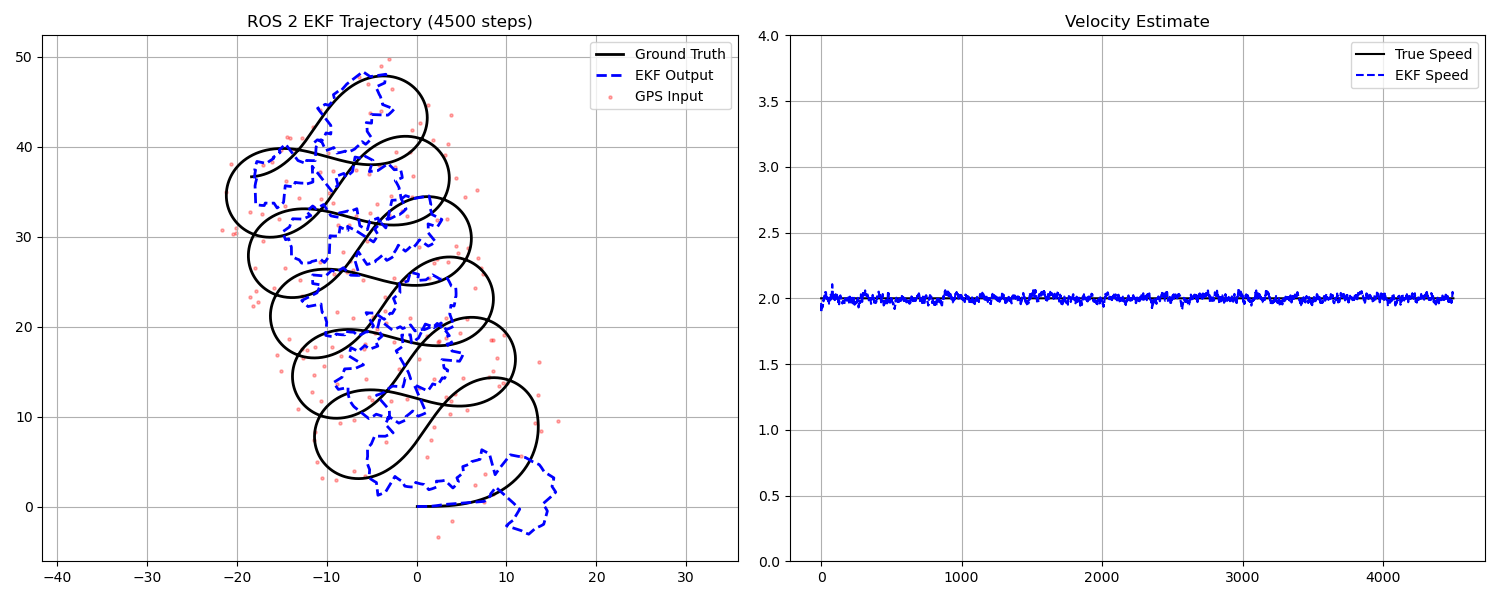
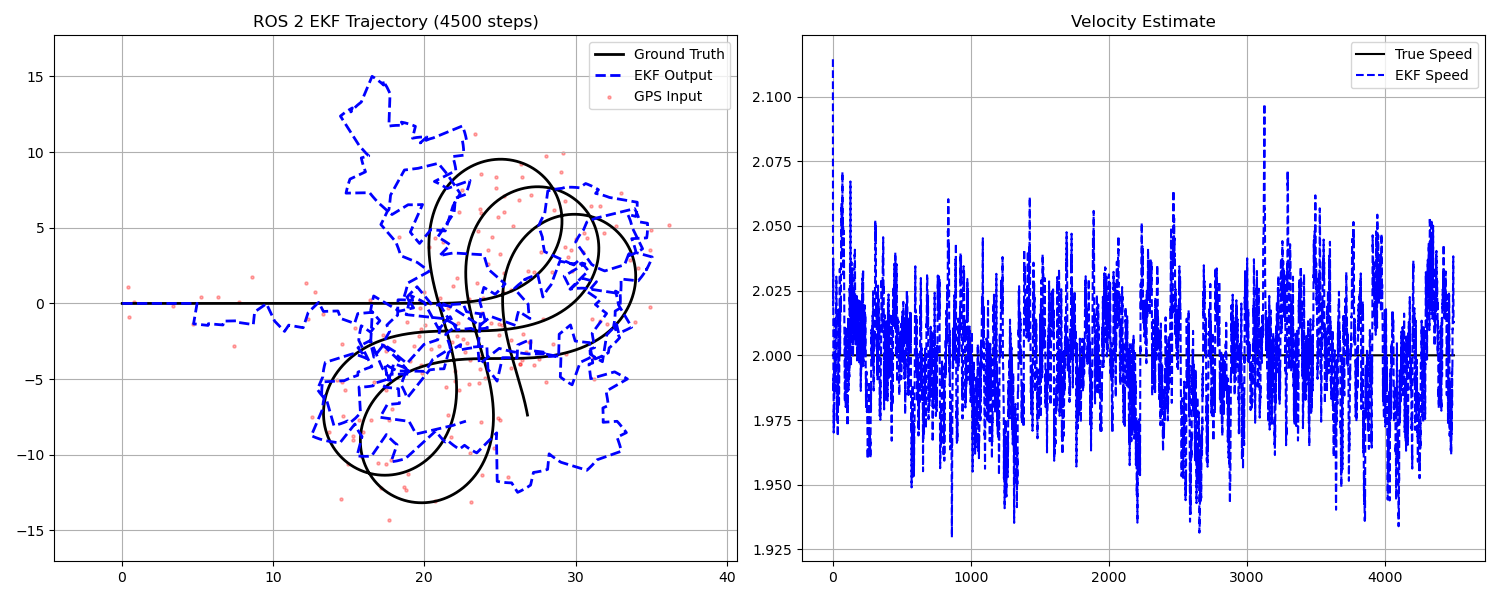
Added gazebo testing bridges for sim imu and gps data

diff --git a/state_estimator/src/state_estimator/virtual_car.py b/state_estimator/src/state_estimator/virtual_car.py
@@ -2,56 +2,51 @@
 import rclpy
 from rclpy.node import Node
 import numpy as np
-from math import sin, cos, pi
+from math import sin, cos, pi, sqrt
 from sensor_msgs.msg import Imu
 from nav_msgs.msg import Odometry
 from std_msgs.msg import Float32
-from geometry_msgs.msg import PoseWithCovarianceStamped
+from geometry_msgs.msg import PoseWithCovarianceStamped, Quaternion
 
 class VirtualRobot(Node):
     def __init__(self):
         super().__init__('virtual_robot')
 
-        # Publishers
+        # --- PUBLISHERS ---
+        # We publish to /imu/diff to mimic the output of 'imu_bridge.py'
         self.pub_imu = self.create_publisher(Imu, '/imu/diff', 10)
         self.pub_gps = self.create_publisher(PoseWithCovarianceStamped, '/gps/enu_pose', 10)
         self.pub_truth = self.create_publisher(Odometry, '/ground_truth', 10)
         self.pub_wheel = self.create_publisher(Float32, '/wheel_speed', 10)
 
-        # Simulation Settings
-        self.dt = 0.02 # 50 Hz
+        # --- SIMULATION STATE ---
+        self.dt = 0.02  # 50 Hz
         self.t = 0.0
         self.steps = 0
-        self.max_steps = 700000 # Stop after this
+        self.max_steps = 700000 
 
-        # State
+        # Robot Physics State
         self.x = 0.0
         self.y = 0.0
         self.yaw = 0.0
-        self.v = 2.0 
+        self.v = 2.0  # Constant speed 2.0 m/s
 
         self.create_timer(self.dt, self.update)
-        self.get_logger().info(f"🚀 VIRTUAL ROBOT LIVE. Simulating {self.max_steps} steps...")
+        self.get_logger().info(f"🚀 VIRTUAL ROBOT LIVE. Dual-IMU Mode.")
 
     def update(self):
         if self.steps >= self.max_steps:
             return
 
+        # --- 1. PHYSICS ENGINE (Drive Straight -> Then Curve) ---
+        # This mimics the "Operational Procedure" needed for EKF alignment
         if self.t < 10.0:
-            true_yaw_rate = 0.0 
+            true_yaw_rate = 0.0  # Drive Straight
         else:
-            # After 5s, start the sine wave curves
-            true_yaw_rate = 0.5 * sin(0.2 * (self.t - 5.0))
+            # Figure-8 Pattern
+            true_yaw_rate = 0.5 * sin(0.2 * (self.t - 10.0))
             
-        self.yaw += true_yaw_rate * self.dt
-        self.x += self.v * cos(self.yaw) * self.dt
-        self.y += self.v * sin(self.yaw) * self.dt
-        self.t += self.dt
-        self.steps += 1
-        
-        # ... (Rest of the file is unchanged) ...
-        # 1. Physics (Figure 8)
-        true_yaw_rate = 0.5 * sin(0.2 * self.t)
+        # Integrate Position
         self.yaw += true_yaw_rate * self.dt
         self.x += self.v * cos(self.yaw) * self.dt
         self.y += self.v * sin(self.yaw) * self.dt
@@ -60,7 +55,66 @@ class VirtualRobot(Node):
 
         now = self.get_clock().now().to_msg()
 
-        # 2. Publish Ground Truth (For Plotting)
+        # --- 2. GENERATE RAW DUAL-IMU DATA ---
+        # We simulate what the hardware sends to the bridge
+        
+        # True Acceleration (Centripetal only, since speed is constant)
+        # a_lat = v * omega
+        true_accel_lat = self.v * true_yaw_rate
+        true_accel_fwd = 0.0 # Constant speed
+        
+        # SIMULATE LEFT IMU (Independent Noise)
+        # In reality, Left IMU might see different accel due to turning radius, 
+        # but for EKF testing, independent noise is sufficient.
+        ax_l = true_accel_fwd + np.random.normal(0, 0.005)
+        ay_l = true_accel_lat + np.random.normal(0, 0.005)
+        gz_l = true_yaw_rate  + np.random.normal(0, 0.001)
+
+        # SIMULATE RIGHT IMU (Independent Noise)
+        ax_r = true_accel_fwd + np.random.normal(0, 0.005)
+        ay_r = true_accel_lat + np.random.normal(0, 0.005)
+        gz_r = true_yaw_rate  + np.random.normal(0, 0.001)
+
+        # --- 3. BRIDGE PROCESSING LOGIC ---
+        # This matches exactly what your 'imu_bridge.py' does
+        
+        # A. Average the Gyros (Noise Reduction)
+        gyro_z_avg = (gz_l + gz_r) / 2.0
+        
+        # B. Average the Accelerometers (Noise Reduction)
+        accel_x_avg = (ax_l + ax_r) / 2.0
+        
+        # C. Calculate Differential (The Special Feature)
+        # Your bridge stores (Left_X - Right_X) in the Y-channel
+        accel_diff_x = ax_l - ax_r 
+
+        # --- 4. PUBLISH /imu/diff ---
+        imu = Imu()
+        imu.header.stamp = now
+        imu.header.frame_id = "imu_link"
+        
+        # Orientation (Quaternions)
+        # We assume Pitch/Roll = 0 for simulation, only Yaw matters here
+        # Note: Your bridge uses a filter for P/R, we just send clean Identity + Yaw
+        # Actually, standard IMU messages usually don't carry Yaw unless it's an AHRS.
+        # But your EKF uses Gyro Z, so orientation field is less critical here.
+        imu.orientation.w = 1.0 
+        
+        # Angular Velocity
+        imu.angular_velocity.z = gyro_z_avg
+        
+        # Linear Acceleration
+        imu.linear_acceleration.x = accel_x_avg
+        imu.linear_acceleration.y = accel_diff_x  # <--- DIFFERENTIAL DATA
+        imu.linear_acceleration.z = 9.81 + np.random.normal(0, 0.001)          # Gravity
+        
+        # Covariance (Matches your Bridge settings)
+        imu.linear_acceleration_covariance = [0.0025, 0.0, 0.0, 0.0, 0.0025, 0.0, 0.0, 0.0, 0.0025]
+        imu.angular_velocity_covariance    = [0.0004, 0.0, 0.0, 0.0, 0.0004, 0.0, 0.0, 0.0, 0.0004]
+        
+        self.pub_imu.publish(imu)
+
+        # --- 5. PUBLISH GROUND TRUTH (For Plotting) ---
         truth_msg = Odometry()
         truth_msg.header.stamp = now
         truth_msg.header.frame_id = "odom"
@@ -68,34 +122,23 @@ class VirtualRobot(Node):
         truth_msg.pose.pose.position.y = self.y
         truth_msg.twist.twist.linear.x = self.v
         truth_msg.twist.twist.angular.z = true_yaw_rate
-        # Yaw to Quaternion
-        truth_msg.pose.pose.orientation.z = sin(self.yaw/2.0)
-        truth_msg.pose.pose.orientation.w = cos(self.yaw/2.0)
         self.pub_truth.publish(truth_msg)
-
-        # 3. Publish Noisy IMU (For EKF)
-        imu = Imu()
-        imu.header.stamp = now
-        imu.header.frame_id = "imu_link"
-        imu.angular_velocity.z = true_yaw_rate + np.random.normal(0, 0.01)
-        # Fake accel noise
-        imu.linear_acceleration.x = np.random.normal(0, 0.1) 
-        self.pub_imu.publish(imu)
     
-        # 4. Publish Noisy GPS (2 Hz)
+        # --- 6. PUBLISH NOISY GPS (2 Hz) ---
         if self.steps % 25 == 0:
             gps = PoseWithCovarianceStamped()
             gps.header.stamp = now
             gps.header.frame_id = "odom"
+            # Add significant noise (1.5m) to test EKF fusion
             gps.pose.pose.position.x = self.x + np.random.normal(0, 1.5)
             gps.pose.pose.position.y = self.y + np.random.normal(0, 1.5)
-            # Covariance
-            gps.pose.covariance[0] = 1.5**2
-            gps.pose.covariance[7] = 1.5**2
+            
+            cov = 1.5**2
+            gps.pose.covariance[0] = cov
+            gps.pose.covariance[7] = cov
             self.pub_gps.publish(gps)
         
-        # 5. Publish Wheel Speed (50Hz)
-        # True speed + small noise (0.1 m/s)
+        # --- 7. PUBLISH WHEEL SPEED (50Hz) ---
         wheel_msg = Float32()
         wheel_msg.data = self.v + np.random.normal(0, 0.1)
         self.pub_wheel.publish(wheel_msg)

diff --git a/state_estimator/src/state_estimator/sim_gps_bridge.py b/state_estimator/src/state_estimator/sim_gps_bridge.py
@@ -1,0 +1,76 @@
+#!/usr/bin/env python3
+import rclpy
+from rclpy.node import Node
+from sensor_msgs.msg import NavSatFix
+from geometry_msgs.msg import PoseWithCovarianceStamped
+import math
+
+class SimGPSBridge(Node):
+    def __init__(self):
+        super().__init__('sim_gps_bridge')
+
+        # --- INPUT: Gazebo Topic ---
+        # Remap this if your simulation uses /gps/fix
+        self.sub_fix = self.create_subscription(NavSatFix, '/gps/fix', self.callback_gps, 10)
+        
+        # --- OUTPUT: EKF Topic ---
+        self.pub_enu = self.create_publisher(PoseWithCovarianceStamped, '/gps/enu_pose', 10)
+
+        # Local Tangent Plane Origin
+        self.origin_lat = None
+        self.origin_lon = None
+        self.EARTH_RADIUS = 6378137.0
+        self.has_origin = False
+
+        self.get_logger().info("✅ SIM GPS BRIDGE STARTED")
+
+    def callback_gps(self, msg):
+        # Ignore invalid fixes
+        if msg.status.status < 0: return
+
+        lat = msg.latitude
+        lon = msg.longitude
+
+        # 1. Set Origin (First valid point becomes (0,0))
+        if not self.has_origin:
+            self.origin_lat = lat
+            self.origin_lon = lon
+            self.has_origin = True
+            self.get_logger().info(f"🌍 SIM ORIGIN SET: {lat}, {lon}")
+            return
+
+        # 2. Convert WGS84 (Lat/Lon) -> ENU (Meters)
+        lat_rad = math.radians(lat)
+        lon_rad = math.radians(lon)
+        origin_lat_rad = math.radians(self.origin_lat)
+        origin_lon_rad = math.radians(self.origin_lon)
+        cos_lat = math.cos(origin_lat_rad)
+
+        x_enu = (lon_rad - origin_lon_rad) * self.EARTH_RADIUS * cos_lat
+        y_enu = (lat_rad - origin_lat_rad) * self.EARTH_RADIUS
+
+        # 3. Publish to EKF
+        pose = PoseWithCovarianceStamped()
+        pose.header = msg.header
+        pose.header.frame_id = "odom"
+        
+        pose.pose.pose.position.x = x_enu
+        pose.pose.pose.position.y = y_enu
+        
+        # 4. Set Covariance (Trust)
+        # Gazebo GPS is usually ~1.5m accurate unless configured otherwise
+        variance = 1.5**2
+        pose.pose.covariance[0] = variance  # X Variance
+        pose.pose.covariance[7] = variance  # Y Variance
+        pose.pose.covariance[35] = 999.0    # Yaw Variance (Unknown)
+        
+        self.pub_enu.publish(pose)
+
+def main(args=None):
+    rclpy.init(args=args)
+    node = SimGPSBridge()
+    rclpy.spin(node)
+    node.destroy_node()
+    rclpy.shutdown()
+
+if __name__ == '__main__': main()

diff --git a/state_estimator/src/state_estimator/sim_imu_bridge.py b/state_estimator/src/state_estimator/sim_imu_bridge.py
@@ -1,0 +1,59 @@
+#!/usr/bin/env python3
+import rclpy
+from rclpy.node import Node
+from sensor_msgs.msg import Imu
+from std_msgs.msg import Float32
+from math import atan2, sqrt
+
+class SimIMUBridge(Node):
+    def __init__(self):
+        super().__init__('sim_imu_bridge')
+
+        # --- INPUT: Gazebo Topic ---
+        # Remap this in your launch command if your Gazebo topic is different (e.g., /demo/imu)
+        self.sub_imu = self.create_subscription(Imu, '/imu/raw', self.callback_imu, 10)
+        
+        # --- OUTPUT: EKF Topics ---
+        # 1. Main Data stream
+        self.pub_imu_diff = self.create_publisher(Imu, '/imu/diff', 10)
+        # 2. Gravity Compensation stream
+        self.pub_pitch    = self.create_publisher(Float32, '/imu/pitch', 10)
+
+        self.get_logger().info("✅ SIM IMU BRIDGE STARTED")
+
+    def callback_imu(self, msg):
+        # 1. Calculate Pitch
+        # Your EKF needs this to subtract gravity from the forward acceleration.
+        ax = msg.linear_acceleration.x
+        ay = msg.linear_acceleration.y
+        az = msg.linear_acceleration.z
+        
+        # Standard Pitch calculation from Gravity Vector
+        pitch = atan2(-ax, sqrt(ay*ay + az*az))
+
+        # 2. Publish Pitch
+        pitch_msg = Float32()
+        pitch_msg.data = pitch
+        self.pub_pitch.publish(pitch_msg)
+
+        # 3. Republish IMU for EKF
+        # We pass the Gazebo data through, but ensure the frame_id is correct.
+        out_msg = msg
+        out_msg.header.frame_id = "imu_link" 
+        
+        # Ensure covariance is present (Gazebo usually handles this, but safety first)
+        if out_msg.linear_acceleration_covariance[0] == 0.0:
+             # Standard noise params if missing
+             out_msg.linear_acceleration_covariance = [0.01, 0.0, 0.0, 0.0, 0.01, 0.0, 0.0, 0.0, 0.01]
+             out_msg.angular_velocity_covariance = [0.001, 0.0, 0.0, 0.0, 0.001, 0.0, 0.0, 0.0, 0.001]
+
+        self.pub_imu_diff.publish(out_msg)
+
+def main(args=None):
+    rclpy.init(args=args)
+    node = SimIMUBridge()
+    rclpy.spin(node)
+    node.destroy_node()
+    rclpy.shutdown()
+
+if __name__ == '__main__': main()

diff --git a/state_estimator/src/state_estimator/ekf_sim.py b/state_estimator/src/state_estimator/ekf_sim.py
@@ -308,7 +308,7 @@ class DataLogger(Node):
         # Resample EKF to match Truth length if slightly different due to callback timing
         min_len = min(len(truth), len(ekf))
         ax[1].plot(ekf[:min_len, 2], 'b--', label='EKF Speed')
-        ax[1].set_ylim(0, 4)
+        # ax[1].set_ylim(0, 4)
         ax[1].grid(True)
         ax[1].legend()
 
